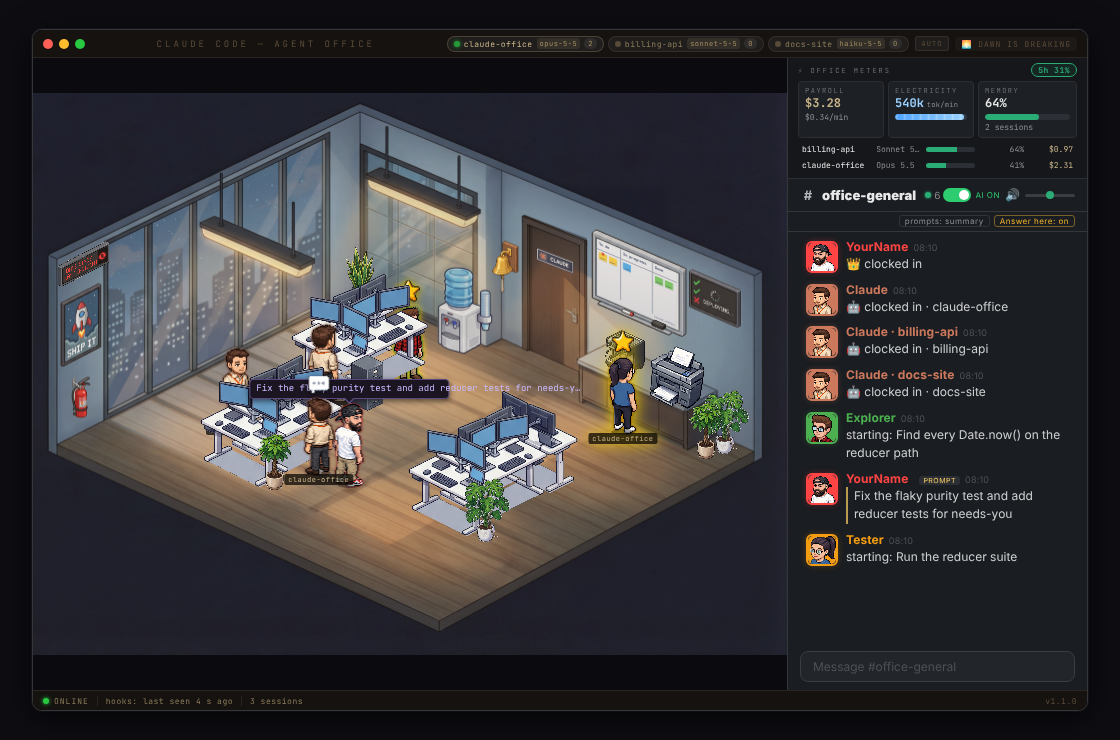
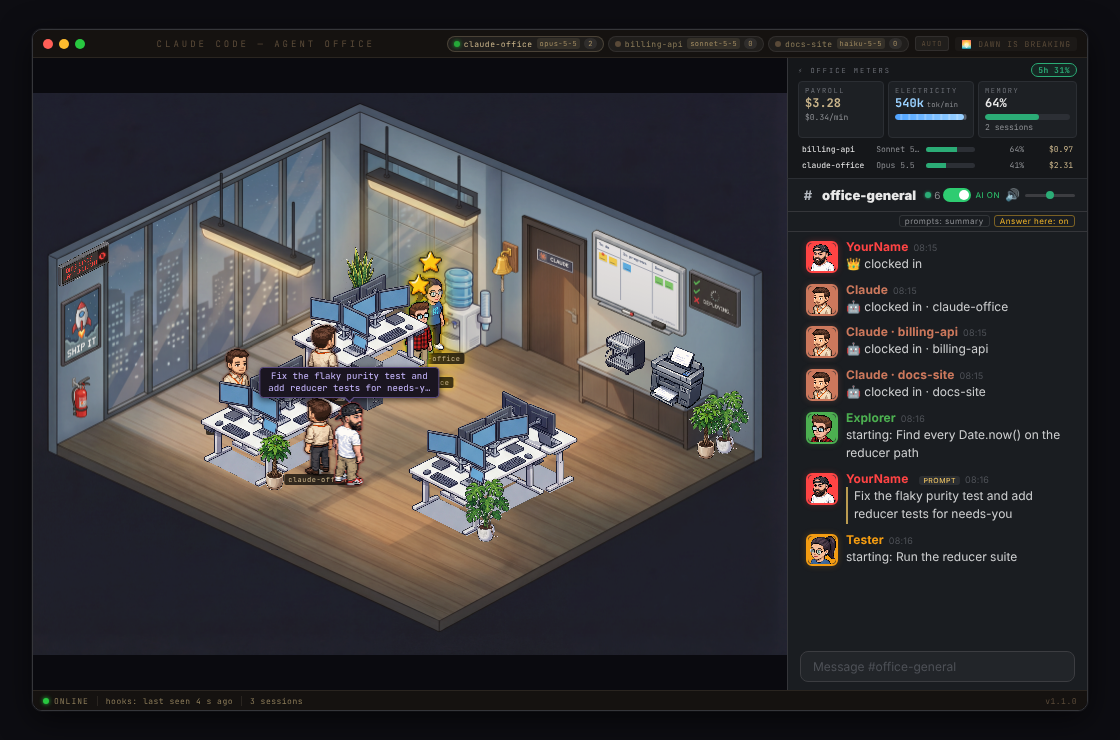
Speech bubbles: lift the speaker above everyone and wrap long text
A character is stacked by its y, so the tags, badges and typing dots of
whoever stood in front covered the boss's prompt bubble. While a bubble
shows, its speaker now sits at z 99 (above every character, under the
incident tint), and the bubble wraps at 180px instead of running one line.

Changed region(s): [[0.2188, 0.3419, 0.4375, 0.6527], [0.5312, 0.4351, 0.5938, 0.6216], [0.4375, 0.4973, 0.5, 0.5284]]

diff --git a/src/components/Character.tsx b/src/components/Character.tsx
@@ -62,6 +62,9 @@ function getAnimState(state: AgentState): string {
 }
 
 // Speech bubble only shown briefly when statusText changes (like posting to Slack)
+const BUBBLE_MS = 3200
+const SPEAKING_Z = 99
+
 function shouldShowBubble(state: AgentState): boolean {
   return state === 'talking-to-manager'
 }
@@ -86,6 +89,18 @@ const Character: React.FC<CharacterProps> = ({ agent, idleDurationMs = 0, zIndex
   const prevPosRef = useRef({ x: agent.position.x, y: agent.position.y })
   const directionRef = useRef<SpriteDirection>(agent.spriteFacing ?? 'front-right')
   const [turnedAround, setTurnedAround] = useState(false)
+
+  // While a speech bubble shows, the speaker is lifted above every other
+  // character (they are stacked by y, up to ~95) and under the incident tint
+  // (100), so tags and bubbles of whoever stands in front cannot cover it
+  const bubbleText = shouldShowBubble(agent.state) && agent.statusText ? agent.statusText : null
+  const [speaking, setSpeaking] = useState(false)
+  useEffect(() => {
+    if (!bubbleText) { setSpeaking(false); return }
+    setSpeaking(true)
+    const timer = setTimeout(() => setSpeaking(false), BUBBLE_MS)
+    return () => clearTimeout(timer)
+  }, [bubbleText])
 
   const isMoving = agent.state === 'new-hire' || agent.state === 'walking-to-desk' || agent.state === 'walking-to-manager' ||
     agent.state === 'coffee-break' || agent.state === 'completed' || agent.state === 'changing-room'
@@ -180,7 +195,7 @@ const Character: React.FC<CharacterProps> = ({ agent, idleDurationMs = 0, zIndex
         left: `${agent.position.x}%`,
         top: `${agent.position.y}%`,
         transform: 'translate(-50%, -100%)',
-        zIndex: zIndex ?? Math.round(agent.position.y),
+        zIndex: speaking ? SPEAKING_Z : zIndex ?? Math.round(agent.position.y),
       }}
       title={projectTag || main ? tooltip : undefined}
       data-main-state={mainState}
@@ -210,9 +225,9 @@ const Character: React.FC<CharacterProps> = ({ agent, idleDurationMs = 0, zIndex
         </div>
       )}
 
-      {shouldShowBubble(agent.state) && agent.statusText && (
+      {bubbleText && (
         // The boss handing a prompt over at Claude's desk (purple bubble); any other visitor keeps the plain one
-        <SpeechBubble key={agent.statusText} text={agent.statusText} isManager={agent.role === BOSS_ROLE} duration={3200} />
+        <SpeechBubble key={bubbleText} text={bubbleText} isManager={agent.role === BOSS_ROLE} duration={BUBBLE_MS} />
       )}
 
       <div

diff --git a/src/styles/office.css b/src/styles/office.css
@@ -574,13 +574,15 @@
   border: 1px solid #4a4a30;
   border-radius: 4px;
   padding: 3px 6px;
-  max-width: 200px;
+  width: max-content;
+  max-width: 180px;
   font-size: 9px;
   font-family: 'JetBrains Mono', monospace;
   line-height: 1.3;
   color: #eee;
   text-align: center;
-  white-space: nowrap;
+  white-space: normal;
+  overflow-wrap: anywhere;
   z-index: 30;
   pointer-events: none;
   animation: bubblePop 0.2s cubic-bezier(0.34, 1.56, 0.64, 1) forwards;
